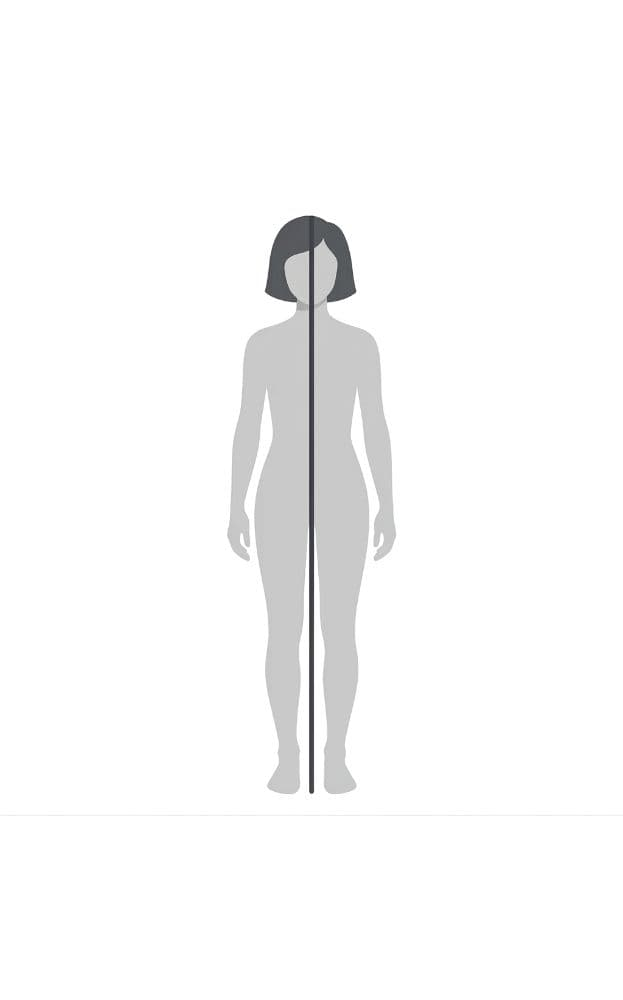
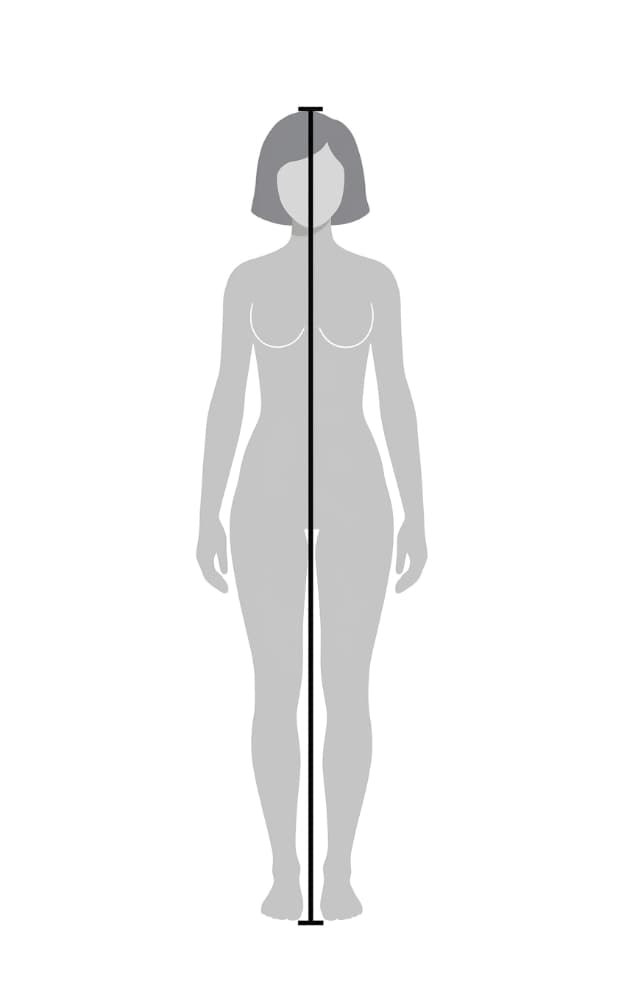
changed measurement illustration image

Changed region(s): [[0.305, 0.093, 0.7014, 0.93]]

diff --git a/src/pages/Customers/components/AddCustomerModal/AddCustomerModal.module.css b/src/pages/Customers/components/AddCustomerModal/AddCustomerModal.module.css
@@ -379,7 +379,7 @@
 
 .measureImg {
   width: 130px;
-  height: 151px;
+  height: 160px;
   object-fit: cover;
   flex-shrink: 0;
   border-radius: 8px;